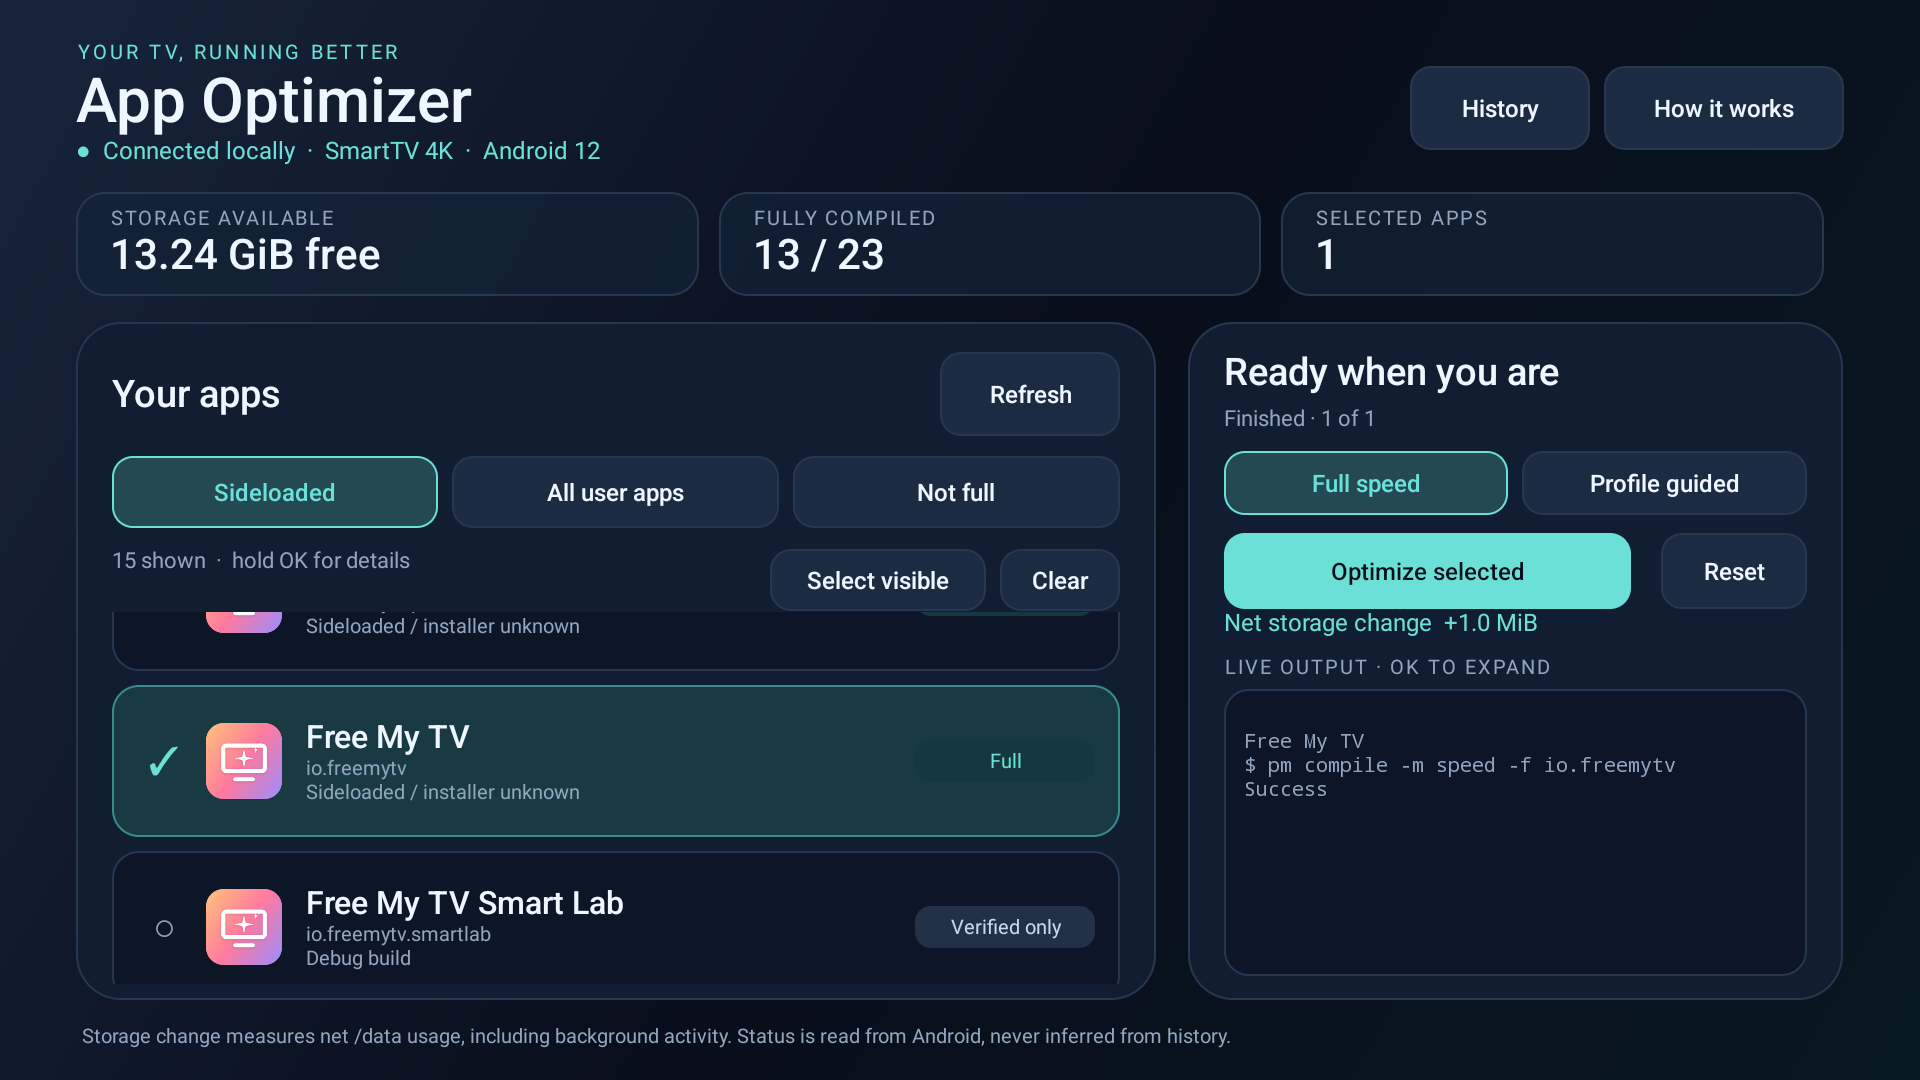
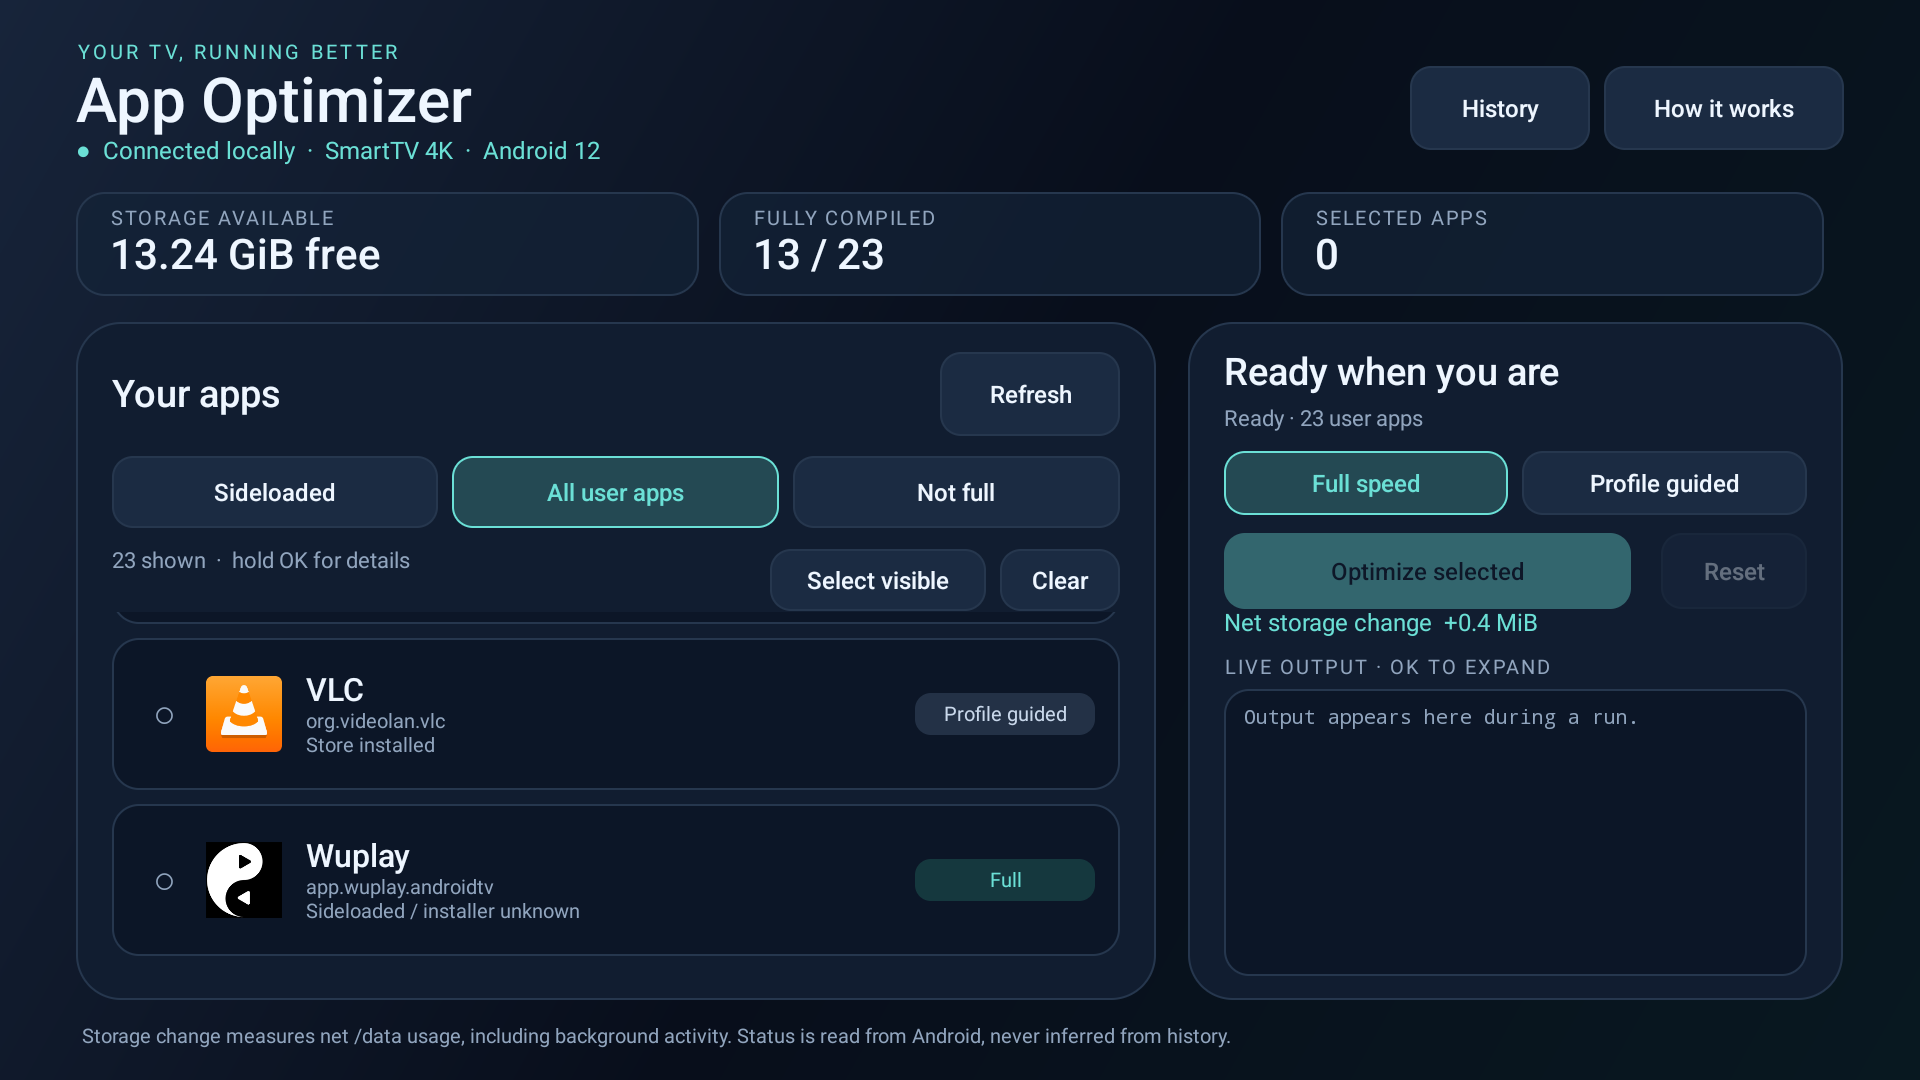
Show VLC and Wuplay in end-user documentation screenshots

diff --git a/README.md b/README.md
@@ -4,7 +4,7 @@ A lightweight Android TV app for compiling your installed apps with a remote con
 
 App Optimizer is a separate utility. It preserves your launcher, streaming apps, app data, sign-ins and network settings. No root, Google account, subscription or computer is needed for everyday use after installation and setup.
 
-![App Optimizer on Android TV](docs/images/app-optimizer.png)
+![App Optimizer showing VLC and Wuplay](docs/images/app-optimizer.png)
 
 ## Install
 
@@ -78,6 +78,8 @@ Compilation can improve some app startup or execution paths. It does not promise
 
 ## Read the status badges
 
+![Wuplay compilation details](docs/images/app-details.png)
+
 Statuses come from Android's compilation records, not from your past button presses. A command returning `Success` does not, by itself, earn a Full badge.
 
 | Status | Meaning |
@@ -86,7 +88,6 @@ Statuses come from Android's compilation records, not from your past button pres
 | **Profile guided** | Android reports profile-based compilation. This is an optimized state. |
 | **Verified only** | Android checked the code without ahead-of-time method compilation. |
 | **Interpreted** | Android 7 reports interpretation instead of ahead-of-time bytecode compilation. Native/JNI stubs may remain. |
-| **Interpreted** | Android 7 reports interpretation instead of ahead-of-time bytecode method compilation. Native/JNI stubs may remain. |
 | **Mixed** | Reported code paths or architectures use different compilation modes. |
 | **Not compiled** | Android reports execution from the APK or an equivalent noncompiled state. |
 | **Unknown** | Android did not expose a recognized, readable record. This does not prove the app is unoptimized. |
@@ -106,8 +107,6 @@ Reset is not an exact restore point. It does not recreate an app's earlier learn
 The full post-install `pm compile --reset` operation was rejected by the tested Hisense firmware because clearing all profile data requires system privileges. App Optimizer deliberately uses the verification-only operation instead and does not try to bypass that restriction.
 
 ## Understand storage changes and history
-
-![Saved per-app compilation and reversal results](docs/images/history.png)
 
 - **Storage available** is free space on the TV's `/data` filesystem.
 - **Net storage change** compares free space before and after a run. A positive number means more storage is used; a negative number means space was freed.
